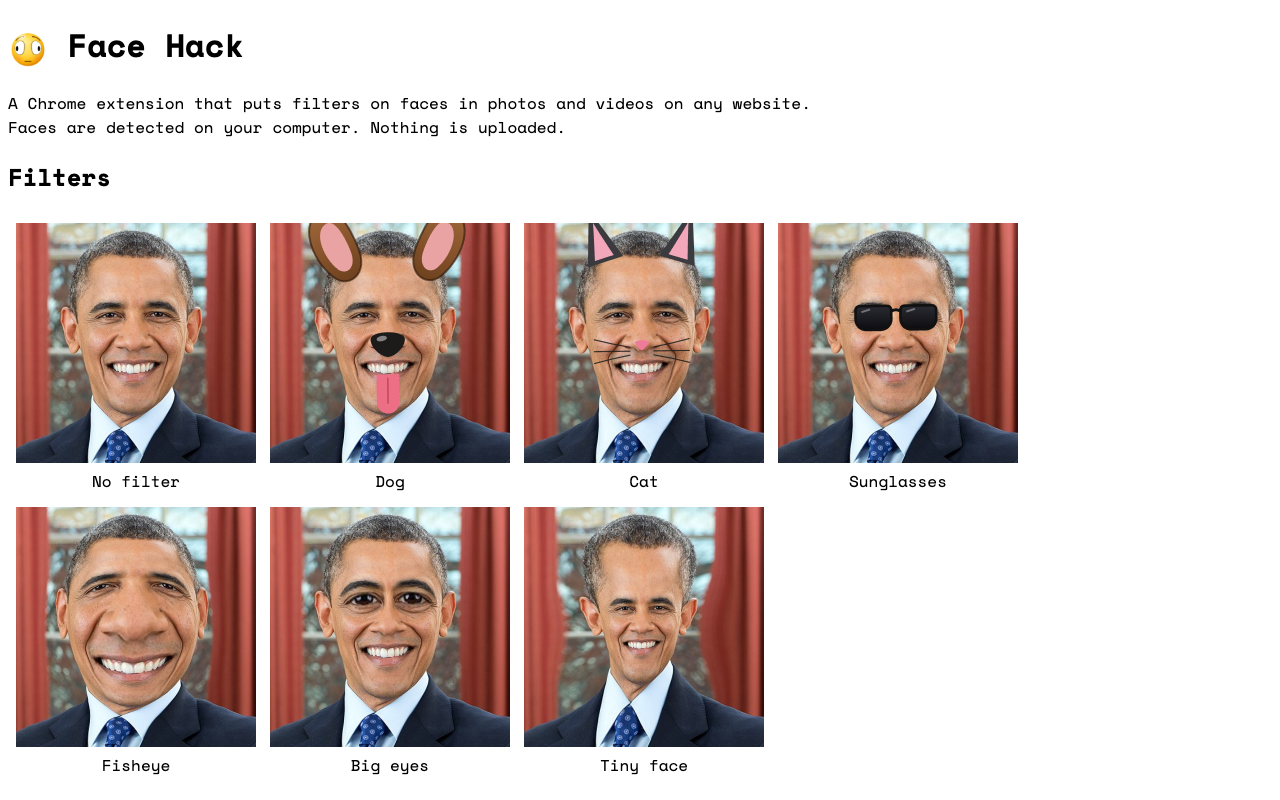
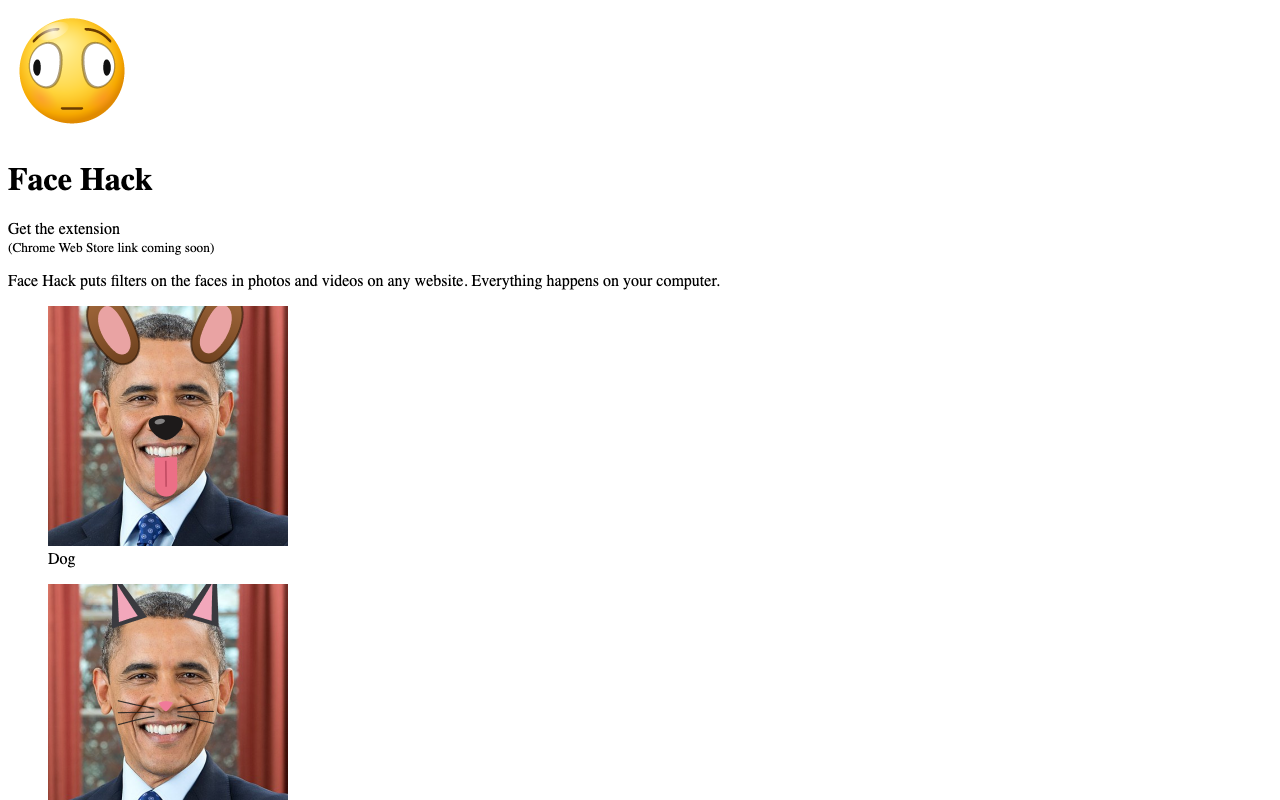
Centered single-column site layout; mention slider settings in privacy policy

diff --git a/docs/index.html b/docs/index.html
@@ -1,39 +1,41 @@
 <!doctype html>
-<html>
+<html lang="en">
 <head>
 <meta charset="utf-8">
 <meta name="viewport" content="width=device-width, initial-scale=1">
 <title>Face Hack</title>
 <link rel="icon" href="icon128.png">
-<style>
-@font-face { font-family: 'Space Mono'; src: url('fonts/SpaceMono-Regular.ttf') format('truetype'); font-weight: 400; }
-@font-face { font-family: 'Space Mono'; src: url('fonts/SpaceMono-Bold.ttf') format('truetype'); font-weight: 700; }
-body { font-family: 'Space Mono', ui-monospace, monospace; }
-</style>
+<link rel="stylesheet" href="style.css">
 </head>
 <body>
-<h1><img src="icon128.png" width="40" height="40" alt="" align="absmiddle"> Face Hack</h1>
-<p>A Chrome extension that puts filters on faces in photos and videos on any website.<br>
-Faces are detected on your computer. Nothing is uploaded.</p>
+<main>
+<img class="logo" src="icon128.png" alt="">
+<h1>Face Hack</h1>
 
-<h2>Filters</h2>
-<table cellpadding="6">
-<tr>
-<td align="center"><img src="examples/original.png" width="240" height="240" alt="No filter"><br>No filter</td>
-<td align="center"><img src="examples/dog.png" width="240" height="240" alt="Dog"><br>Dog</td>
-<td align="center"><img src="examples/cat.png" width="240" height="240" alt="Cat"><br>Cat</td>
-<td align="center"><img src="examples/glasses.png" width="240" height="240" alt="Sunglasses"><br>Sunglasses</td>
-</tr>
-<tr>
-<td align="center"><img src="examples/fisheye.png" width="240" height="240" alt="Fisheye"><br>Fisheye</td>
-<td align="center"><img src="examples/bigEyes.png" width="240" height="240" alt="Big eyes"><br>Big eyes</td>
-<td align="center"><img src="examples/pinch.png" width="240" height="240" alt="Tiny face"><br>Tiny face</td>
-</tr>
-</table>
+<p class="cta">Get the extension<br><small>(Chrome Web Store link coming soon)</small></p>
 
-<h2>Install</h2>
-<p>Chrome Web Store link coming soon.</p>
+<div class="intro">Face Hack puts filters on the faces in photos and videos on any website. Everything happens on your computer.</div>
 
-<p><a href="privacy.html">Privacy policy</a></p>
+<div class="filters">
+<figure><img src="examples/dog.png" width="240" height="240" alt="Dog filter"><figcaption>Dog</figcaption></figure>
+<figure><img src="examples/cat.png" width="240" height="240" alt="Cat filter"><figcaption>Cat</figcaption></figure>
+<figure><img src="examples/glasses.png" width="240" height="240" alt="Sunglasses filter"><figcaption>Sunglasses</figcaption></figure>
+<figure><img src="examples/fisheye.png" width="240" height="240" alt="Fisheye filter"><figcaption>Fisheye</figcaption></figure>
+<figure><img src="examples/bigEyes.png" width="240" height="240" alt="Big eyes filter"><figcaption>Big eyes</figcaption></figure>
+<figure><img src="examples/pinch.png" width="240" height="240" alt="Tiny face filter"><figcaption>Tiny face</figcaption></figure>
+</div>
+
+<div class="copy">
+<h2>How it works</h2>
+<p>Turn it on and browse like normal. Face Hack finds the faces in photos and videos on the page and adds whichever filter you picked: dog ears, cat whiskers, sunglasses, a fisheye bulge, big eyes or a tiny face. Click the icon in your toolbar to switch filters, and drag the slider to make the ears bigger or the fisheye stronger. Every face on the page changes as you drag.</p>
+
+<h2>Private by design</h2>
+<p>Face detection runs on your computer with a face model that ships inside the extension. Your photos are never uploaded, there's no account, and nothing is tracked.</p>
+</div>
+
+<footer>
+<a href="privacy.html">Privacy policy</a> · <a href="https://github.com/gracejli/face-filters">Source on GitHub</a>
+</footer>
+</main>
 </body>
 </html>

diff --git a/docs/privacy.html b/docs/privacy.html
@@ -5,15 +5,15 @@
 <meta name="viewport" content="width=device-width, initial-scale=1">
 <title>Face Hack privacy policy</title>
 <link rel="icon" href="icon128.png">
-<style>
-@font-face { font-family: 'Space Mono'; src: url('fonts/SpaceMono-Regular.ttf') format('truetype'); font-weight: 400; }
-@font-face { font-family: 'Space Mono'; src: url('fonts/SpaceMono-Bold.ttf') format('truetype'); font-weight: 700; }
-body { font-family: 'Space Mono', ui-monospace, monospace; }
-</style>
+<link rel="stylesheet" href="style.css">
 </head>
 <body>
-<h1>Face Hack privacy policy</h1>
-<p><i>Last updated October 13, 2026</i></p>
+<main>
+<img class="logo" src="icon128.png" alt="">
+<h1>Privacy policy</h1>
+<p><i>Last updated October 14, 2026</i></p>
+
+<div class="copy">
 
 <p><b>In short:</b> Face Hack doesn't collect, store or send any of your data. Faces are detected on your own computer, and your images never leave it.</p>
 
@@ -24,7 +24,7 @@ body { font-family: 'Space Mono', ui-monospace, monospace; }
 <p>Browsers don't let extensions read the pixels of images from other websites directly. To work around this, the extension downloads a fresh copy of an image the page is already showing, from the same address the page used. These requests are sent without your cookies, go only to the website hosting the image, and the image data stays on your computer. The extension makes no other network requests: no analytics, no tracking, no ads, and no server of ours.</p>
 
 <h2>Settings</h2>
-<p>Your two settings (whether filters are on, and which filter is selected) are stored locally in your browser. They aren't synced to your Google account.</p>
+<p>Your settings (whether filters are on, which filter is selected, and where each slider is set) are stored locally in your browser. They aren't synced to your Google account.</p>
 
 <h2>Data we collect</h2>
 <p>None. We don't collect personal information, browsing history, images, usage statistics or anything else, so there is nothing to sell, share or delete.</p>
@@ -35,6 +35,9 @@ body { font-family: 'Space Mono', ui-monospace, monospace; }
 <h2>Contact</h2>
 <p>Questions? Email <a href="mailto:hi@gracejli.com">hi@gracejli.com</a>.</p>
 
-<p><a href="index.html">Back to Face Hack</a></p>
+</div>
+
+<footer><a href="index.html">Back to Face Hack</a></footer>
+</main>
 </body>
 </html>

diff --git a/docs/style.css b/docs/style.css
@@ -1,0 +1,70 @@
+@font-face {
+  font-family: 'Space Mono';
+  src: url('fonts/SpaceMono-Regular.ttf') format('truetype');
+  font-weight: 400;
+}
+@font-face {
+  font-family: 'Space Mono';
+  src: url('fonts/SpaceMono-Bold.ttf') format('truetype');
+  font-weight: 700;
+}
+
+body {
+  margin: 0;
+  background: #fff;
+  color: #000;
+  font: 16px/1.65 'Space Mono', ui-monospace, monospace;
+  text-align: center;
+}
+a { color: inherit; }
+
+/* One narrow centred column. */
+main {
+  max-width: 600px;
+  margin: 0 auto;
+  padding: 48px 16px 64px;
+}
+
+.logo { width: 96px; height: 96px; }
+h1 {
+  font-size: 40px;
+  line-height: 1.15;
+  text-transform: uppercase;
+  margin: 20px 0 28px;
+}
+h2 {
+  font-size: 18px;
+  text-transform: uppercase;
+  margin: 48px 0 16px;
+}
+
+.cta { font-weight: 700; font-size: 18px; margin: 0 0 32px; }
+
+.intro {
+  border: 1px solid #000;
+  padding: 20px 24px;
+  margin: 0 0 40px;
+}
+
+.filters {
+  display: grid;
+  grid-template-columns: repeat(3, minmax(0, 1fr));
+  gap: 16px;
+}
+@media (max-width: 480px) {
+  .filters { grid-template-columns: repeat(2, minmax(0, 1fr)); }
+}
+figure {
+  margin: 0;
+  padding: 8px;
+  border: 2px dashed #000;
+}
+figure img { display: block; width: 100%; height: auto; }
+figcaption { font-size: 13px; margin-top: 6px; }
+
+.copy { text-align: left; }
+
+footer {
+  margin-top: 56px;
+  font-size: 13px;
+}
